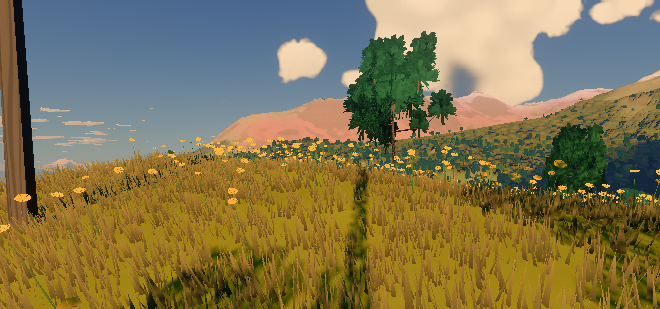
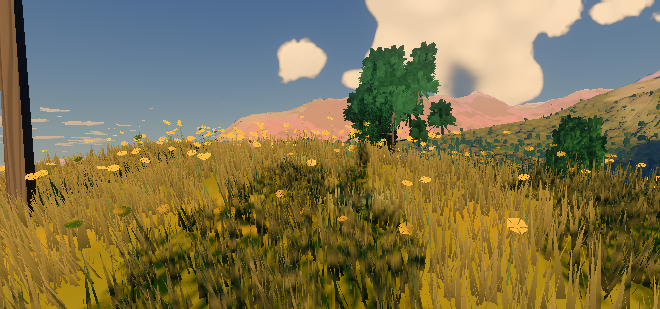
Notes: the near trees' shadow tree by tree; the opening view again
Claude-Session: https://claude.ai/code/session_01XG1DZ585vPB1kCXuxRvUFx

diff --git a/docs/briefs/far-forest-report.md b/docs/briefs/far-forest-report.md
@@ -163,11 +163,17 @@ the shadow maps those trees had no shadow of the land on them, ever. Both are do
   cloud noise once or twice), nothing per pixel. **Not measured on a phone.**
 - **The land's shadow on the near trees.** The worker's job for a block of near trees now
   does what the far forest's tile job does (one function, `landShadow` in
-  `src/terrain/chunkWorker.js`): a 4 x 4 grid of shadow rays over the 111 m block, read off
-  per tree, carried in the fourth number of `iD`. A block is asked for again when the Sun
+  `src/terrain/chunkWorker.js`): one shadow ray per tree, from two thirds of its height,
+  carried in the fourth number of `iD`. A block is asked for again when the Sun
   has moved a degree and a half, as the far tiles are. Under the shadow maps a near tree is
   now shaded twice by the same hill, which changes nothing dark to dark; at the soft edge
   of a mountain's shadow near trees are a little darker than before.
+  **Tried and taken back:** a 4 x 4 grid over the block, as the far tiles have. On the
+  opening ledge it read the shade under the cliff into the trees standing on the rim in
+  the Sun (their crowns a fifth darker in the opening view); tree by tree they are as
+  bright as they were. The far tiles keep their grid (20 x 20 over 889 m and up): the same
+  bleed is there on far rims, softer and far off. A block's job now casts one ray per
+  tree, some 200 in a wooded block; its time was not measured here.
 - Pictures: `haven_ledge_cloud1535_before/_after.png` (the near trees at the bottom, lit in
   the shadow before, dark with their ground after), `cloud1535_floor_after` (every saving
   on), `cloud1900_before/_after` (far trees in the shadow on the right). The before

diff --git a/docs/ARCHITECTURE.md b/docs/ARCHITECTURE.md
@@ -709,7 +709,8 @@ as Earth is; what differs is where the maps come from.
     shadow baker (`baker.visibility`) on a 20 x 20 grid over the tile at crown height and
     each tree carries what it reads off between the grid's points (in `iC.w`, with its
     autumn); a tile is asked for again when the Sun has moved a degree and a half. The
-    near trees get the same from their block's job (`landShadow` in the worker, `iD.w`).
+    near trees get theirs from their block's job, tree by tree (`landShadow` in the worker,
+    `iD.w`): a grid over a block on a rim put the cliff's shade on the trees above it.
   - **The clouds' shadow** on near and far trees is the ground's rule, once per tree in the
     vertex shader (`CLOUD_SHADE_VERT` in `trees.js`), fed by the ground's own uniform
     objects: one rule, and a saving on the ground is a saving on the trees.
